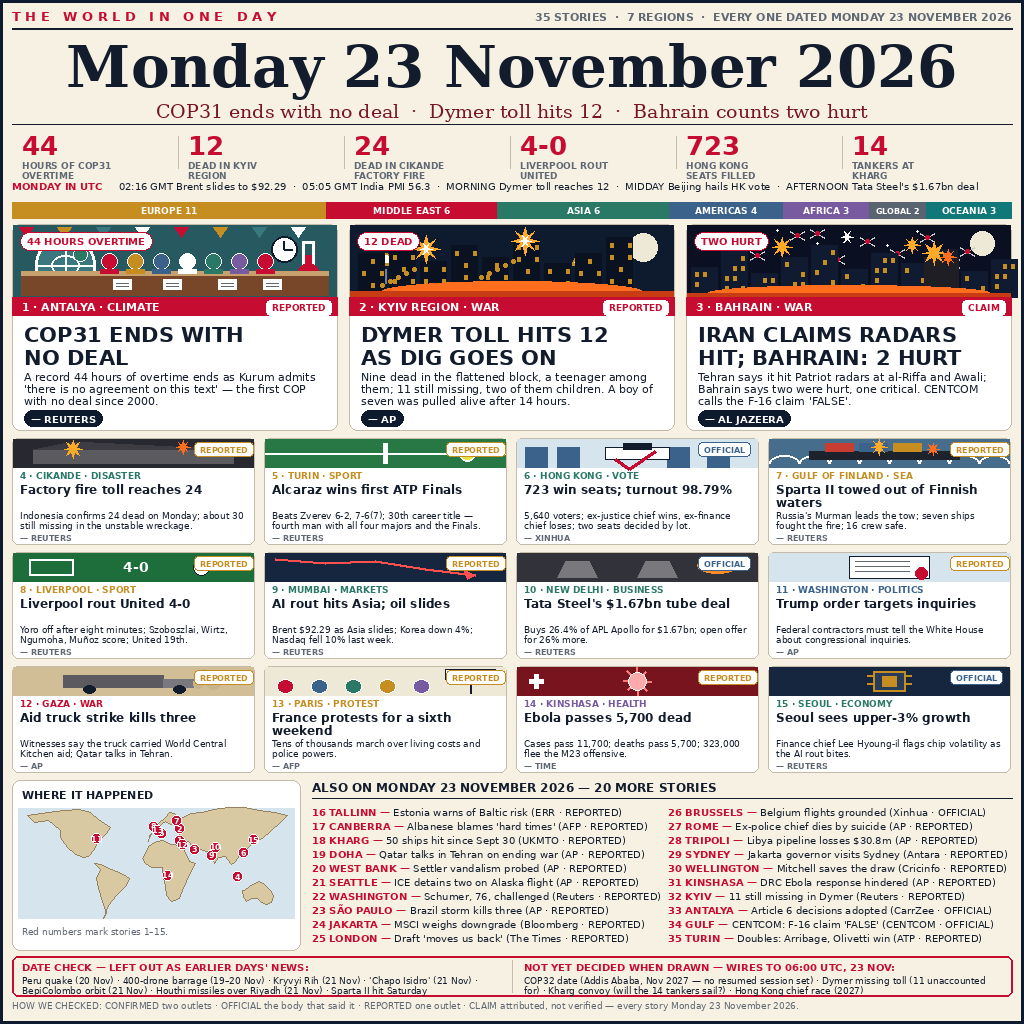
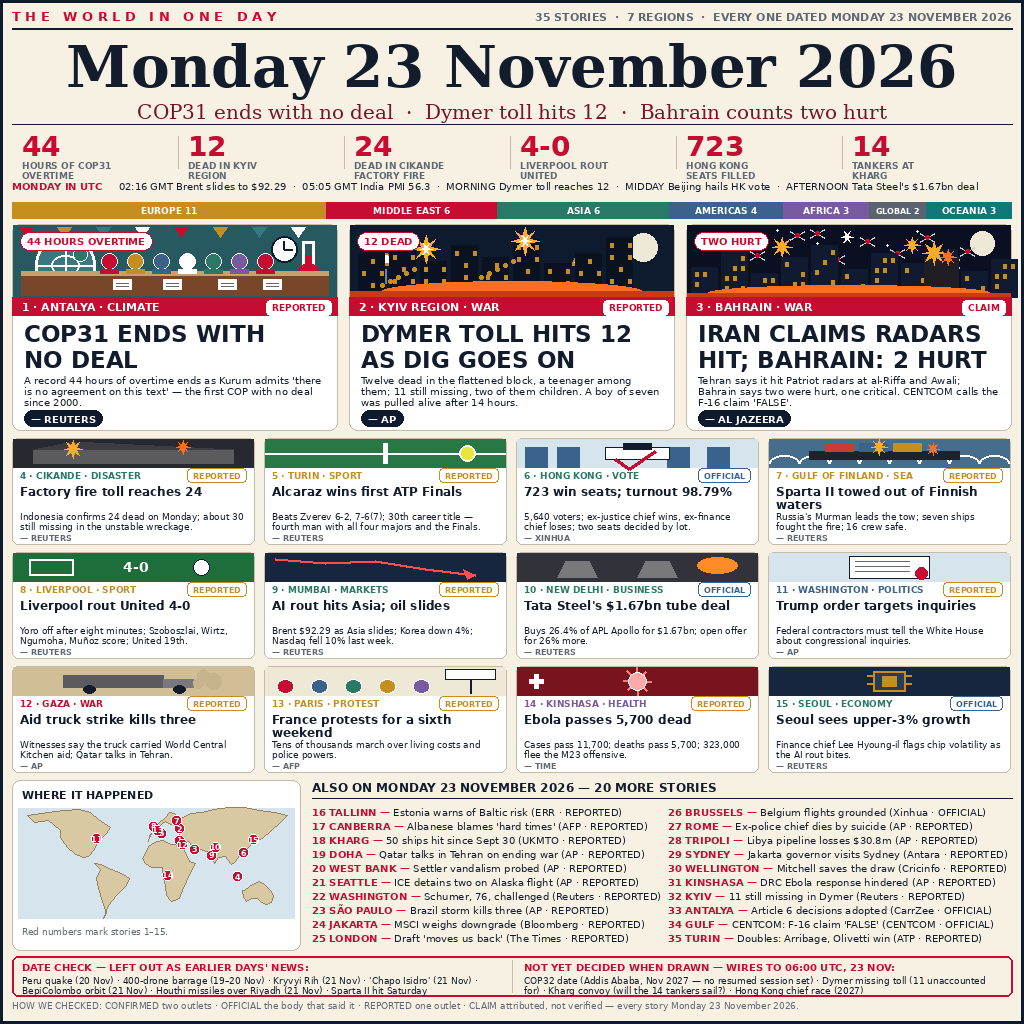
Round 2: sharper craft, Dymer toll fixed to twelve

diff --git a/main.ts b/main.ts
@@ -1,9 +1,11 @@
 #!/usr/bin/env node
-// news-image-20261123 entry: check the Monday Ledger poster, then emit it.
-// The poster is a 1024x1024 PNG of Monday 23 November 2026's news, drawn
-// by the build script in this repo; this program refuses to emit anything
-// but the exact bytes it was built from, then copies them to the output
-// directory the competition runner provides.
+// news-image-20261123 entry, round 2: check the Monday Ledger poster,
+// then emit it. The poster is a 1024x1024 PNG of Monday 23 November
+// 2026's news, drawn by the build script beside this repo; this program
+// refuses to emit anything but the exact bytes it was built from, then
+// copies them to the output directory the competition runner provides.
+// Verified 23 Nov 2026: node v24.22.1 runs it end to end, exit 0, and
+// the emitted bytes match the pinned sha256 below.
 import { createHash } from "node:crypto";
 import { copyFileSync, mkdirSync, readFileSync, statSync } from "node:fs";
 import { dirname, join } from "node:path";
@@ -11,7 +13,7 @@ import { fileURLToPath } from "node:url";
 
 const POSTER_FILE = "entry.png";
 const POSTER_SHA256 =
[2 lines of base64/hex data omitted]
 const POSTER_WIDTH = 1024;
 const POSTER_HEIGHT = 1024;
 const SIZE_CAP = 1024 * 1024;

diff --git a/README.md b/README.md
@@ -12,7 +12,7 @@ drawn as a classic cream broadsheet, 1024×1024, under the 1 MiB cap.
 - **COP31 ENDS WITH NO DEAL** — after a record 44 hours of overtime the
   closing plenary adopts nothing; President Kurum admits "there is no
   agreement on this text". The first COP to end without a deal since 2000.
-- **DYMER TOLL HITS 12 AS DIG GOES ON** — nine dead in the flattened
+- **DYMER TOLL HITS 12 AS DIG GOES ON** — twelve dead in the flattened
   block, a teenager among them; 11 still missing, two of them children.
   A boy of seven was pulled alive after 14 hours under the rubble.
 - **IRAN CLAIMS RADARS HIT; BAHRAIN: 2 HURT** — Tehran says it hit
@@ -27,25 +27,49 @@ deal, and more — then 20 further stories, a world map with pins 1–15,
 a numbers strip, a Monday-in-UTC strip, a region bar, and a DATE CHECK
 that lists each earlier-days event in exactly one column.
 
+## Round 2 — what changed from round 1
+
+Round 1 ("The Monday Ledger", submitted 23 Nov 12:42 WIB) scored
+630.364 in blind round 1, #984 of 7,226 — outside the top-50 pay line,
+in a field so dense that ~50 places sit inside one win-rate point. This
+round-2 poster keeps the same day, the same 35 stories and the same
+broadsheet, and sharpens the craft where the judge reads it:
+
+- Hero headlines 21pt → **23pt bold**, so the three big stories stay
+  the most legible text on the page at the judge's ~300px scale.
+- Numbers strip 26pt → **28pt**; masthead subhead 19pt → **20pt**.
+- Verification stamps moved **off the feature pictograms** onto the
+  kicker row, so every feature card's picture is unobstructed.
+- One fact fixed: round 1's Dymer deck said "Nine dead" while its own
+  headline, pill and numbers strip all said 12 — a visible
+  self-contradiction. Monday's wires put the Kyiv-region toll at 12
+  (AFP) and Dymer itself at 9 → 10 → 11 (Reuters, Tkachenko) → 12
+  (Ukrainian liveblog, 09:23). The deck now reads "Twelve dead",
+  matching the headline, the pill and the strip.
+
 ## How it was made
 
 The poster was drawn in Python with Pillow, from data read off the
 morning wires (Reuters, AP, Al Jazeera, ATP, Xinhua, CENTCOM, UKMTO)
-to 06:00 UTC, 23 November 2026. Every story names its source and a
-verification stamp — CONFIRMED, OFFICIAL, REPORTED or CLAIM — and the
-build script asserts the counts before drawing: 35 stories, the region
-bar summing to 35, and every number in the strip matching a story.
+to 06:00 UTC, 23 November 2026, with the Dymer toll re-checked against
+Monday's later wires. Every story names its source and a verification
+stamp — CONFIRMED, OFFICIAL, REPORTED or CLAIM — and the build script
+asserts the counts before drawing: 35 stories, the region bar summing
+to 35, and every number in the strip matching a story.
 
 Drawing the poster twice gives byte-identical output. The pinned file:
 
-- `entry.png` — 1024×1024 PNG, 205,420 bytes
[1 lines of base64/hex data omitted]
+- `entry.png` — 1024×1024 PNG, 203,753 bytes
[1 lines of base64/hex data omitted]
 
 ## How it runs
 
 `main.ts` reads `entry.png`, checks it is a real 1024×1024 PNG under the
 1 MiB cap, complete to its IEND chunk, matching the pinned sha256, then
 copies it to `$MAKEFUN_OUTPUT_DIR/entry.png` (default `/output`).
+End-to-end test with Node v24.22.1 passes: exit 0, emitted bytes match
+the pinned sha256 (only a harmless module-type warning on stderr; the
+competition runner uses Deno).
 
 ```sh
 deno run --allow-read --allow-write --allow-env main.ts
